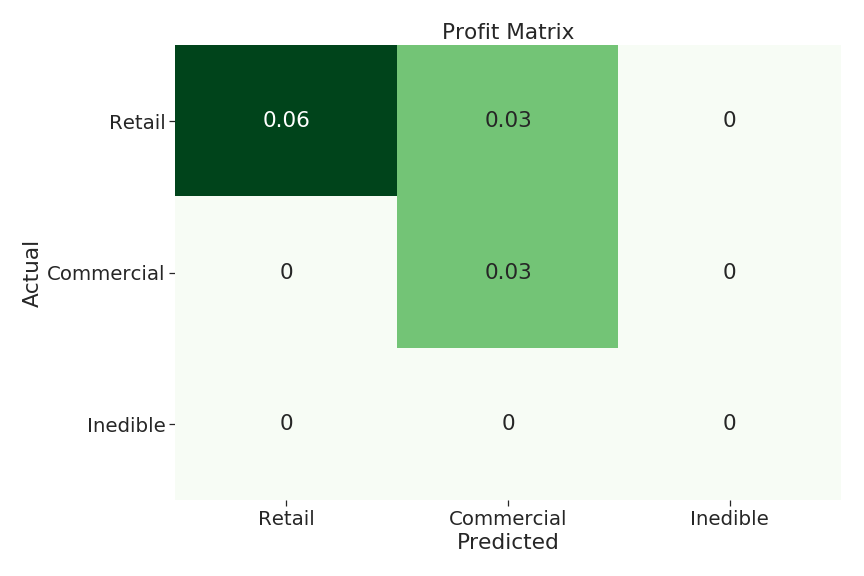
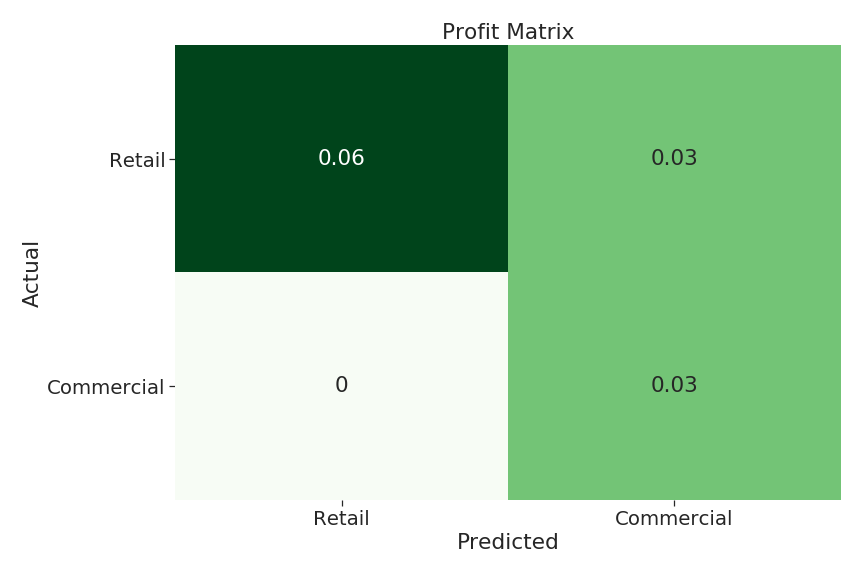
README update

diff --git a/src/model.py b/src/model.py
@@ -36,6 +36,10 @@ def get_scores(y_true, y_pred, average='micro'):
 
     return recall, precision, accuracy, f1, jaccard, specificity, miss, conf, report
 
+def save_model(model):
+    with open('models/sobel_lr.txt', 'wb') as fh:
+            pickle.dump(model, fh)
+
 
 if __name__ == '__main__':
     src_dir = 'data/raw/images'
@@ -49,42 +53,37 @@ if __name__ == '__main__':
     lemons = DatasetBuilder(ann_dir, fname)
     X, y = lemons.load_data()
 
-    # print('\nDoing PCA...')
-    # pca = PCA(n_components=0.9)
-    # X_pca = pca.fit_transform(X)
-    # print(f'Number of components covering 90% variance: {pca.n_components_}')
-    # # print(f'Variance components: {np.pca.explained_variance_[0:6])}')
+    X_train, X_test, y_train, y_test = train_test_split(X, y)#, test_size=0.25)
 
-    X_train, X_test, y_train, y_test = train_test_split(X, y, test_size=0.25)
+    l1s = [0.01, 0.1, 0.5, 0.9, 0.99]
+    regr = LogisticRegressionCV(class_weight='balanced',
+                               max_iter=1000,
+                               tol=0.001,
+                               n_jobs=-1,
+                               penalty='elasticnet',
+                               l1_ratios=l1s,
+                               multi_class='multinomial',
+                               solver='saga',
+                               verbose=1)
+    print('Fitting CV model\n')
+    model = regr.fit(X_train, y_train)
+    save_model(model)
 
-    # l1s = [0.01, 0.1, 0.5, 0.9, 0.99]
-    # regr = LogisticRegressionCV(class_weight='balanced',
-    #                            max_iter=1000,
-    #                            tol=0.001,
-    #                            n_jobs=-1,
-    #                            penalty='elasticnet',
-    #                            l1_ratios=l1s,
-    #                            multi_class='multinomial',
-    #                            solver='saga',
-    #                            verbose=1)
-    # print('Fitting CV model\n')
+    # regr = LogisticRegression(class_weight='balanced',
+    #                           max_iter=1000,
+    #                           penalty='l2',
+    #                           tol=0.0005,
+    #                           solver='saga',
+    #                           multi_class='multinomial',
+    #                           n_jobs=-1,
+    #                           verbose=1)
+
+    # print('\nFitting model...\n')
     # regr.fit(X_train, y_train)
-
-    regr = LogisticRegression(class_weight='balanced',
-                              max_iter=1000,
-                              penalty='l2',
-                              tol=0.0005,
-                              solver='saga',
-                              multi_class='multinomial',
-                              n_jobs=-1,
-                              verbose=1)
-
-    print('\nFitting model...\n')
-    regr.fit(X_train, y_train)
 
     print('\nPredicting!')
 
-    y_pred = regr.predict(X_test)
+    y_pred = model.predict(X_test)
 
     print(f'\nPredicted classes: \n{y_pred}')
 
@@ -99,3 +98,4 @@ if __name__ == '__main__':
     print(f'Specificity (True Negative rate): {specificity}')
     print(f'Misses (False Negative rate): {miss}')
     print(f'Confusion matrix: \n{conf}')
+    print(report)

diff --git a/src/dataset_prep.py b/src/dataset_prep.py
@@ -90,7 +90,7 @@ class DatasetBuilder():
             img = io.imread(file)
 
             gray = color.rgb2gray(img)
-            edges = sobel(img)
+            edges = sobel(gray)
 
             image_dict['data'].append(edges.ravel())
             image_dict['filename'].append(fname)

diff --git a/README.md b/README.md
@@ -7,13 +7,15 @@
 <img src="images/banner.jpg" style="width:900"/>
 
 # The Problem
-Food waste is a big problem in the US, and using machine learning tools to minimize the chances of food getting wasted would be a very beneficial application of the technology. Consumers tend to be very fickle about the appearance of their produce, so the ideal situation would be to sort every piece with a high degree of scrutiny before it gets distributed to grocery stores food product manufacturers.
+Food waste is a big problem in the US, and using sorting machinery augmented with machine learning tools to minimize the chance of food getting wasted would be a very beneficial application of the technology. Consumers tend to be very fickle about the appearance of their produce, so the ideal situation would be to sort every piece with a high degree of scrutiny before it gets distributed to grocery stores food product manufacturers.
 
-This project was designed around the concept of being integrated into an automated sorting/packing line. The machine would implement high speed conveyors moving the fruit along through a brightly lit tunnel, with a gap in between the two belts that facilitates taking high resolution video of each lemon over a uniform black background. 
+This project was designed around the concept of being integrated into an automated sorting/packing line. The machine would implement high speed conveyors moving the fruit along through a brightly lit tunnel, with a gap in between the two belts that facilitates taking high resolution video of each lemon over a uniform black background.
+
+Sorting machine concept: https://youtu.be/Xy1XTY7iqgc
 
 # Business Case
 
-As of 8/21/2020 wholesale pricing is widely varying, from [$12-$40 per 38lbs](https://www.marketnews.usda.gov/mnp/fv-report-top-filters?startIndex=1&dr=1&rowDisplayMax=25&portal=fv&navClass=&commAbr=LEM&locAbr=&locName=&varName=&region=&commName=LEMONS&navClass&navType=byComm&volume=&type=shipPrice&repType=shipPriceDaily), while nominal retail pricing is [$0.99/lb](https://www.marketnews.usda.gov/mnp/fv-report-retail?portal=fv&category=retail&type=retail&region=NATIONAL&organic=ALL&navClass=FRUITS&commodity=LEMONS). Assuming the mid-range wholesale price, there's a possible margin of $0.25 per pound (33%). As with so much of modern commerce, minimizing waste can mean the difference between staying a viable business and going under.
+As of 8/21/2020 wholesale pricing is widely varying, from [$12-$41 per 38lbs](https://www.marketnews.usda.gov/mnp/fv-report-top-filters?startIndex=1&dr=1&rowDisplayMax=25&portal=fv&navClass=&commAbr=LEM&locAbr=&locName=&varName=&region=&commName=LEMONS&navClass&navType=byComm&volume=&type=shipPrice&repType=shipPriceDaily), while nominal retail pricing is [$0.99/lb](https://www.marketnews.usda.gov/mnp/fv-report-retail?portal=fv&category=retail&type=retail&region=NATIONAL&organic=ALL&navClass=FRUITS&commodity=LEMONS). Assuming the mid-range wholesale price, there's a possible margin of $0.25 per pound (33%). As with so much of modern commerce, minimizing waste can mean the difference between staying a viable business and going under.
 
 Each lemon weighs roughly 1/4 pound and represents a potential gross profit of $0.06. Miscategorizing a non-edible lemon has a negative effect in every circumstance, though quantifying that is difficult. Mis-categorizing an industrial lemon to sell at retail represents a potential loss of a sale.
 
@@ -21,13 +23,16 @@ The goal then is to maximize the amount of lemons we can send to retail outlets 
 
 <img src="images/profit_matrix.png" style="width: 420px"/>
 
+*Profit matrix with all 'Inedible' fields set to 0 and removed*
+
 # The Data
 
-![](images/mosaic_c.png)
-*Image credit to the dataset creators*
+<img src="images/mosaic_c.png"/>
+*Image credit to the dataset creators. Quite beautiful, isn't it?*
 
-I found a dataset of 2690 images of lemons, along with annotations for each image that included information about the defects present as well as the overall quality of the image.
+I found a dataset of 2690 images of lemons in various states of decay, along with annotations for each image that included information about the defects present as well as the overall quality of the image.
 
+*__List of points of interest__*
 |   id | name               |
 |-----:|:-------------------|
 |    1 | image_quality      |
@@ -49,12 +54,11 @@ There are a couple of attributes that occur to varying degrees and could potenti
 
 - Retail (Class 2): fruit with none of the above
 
-
-
 The class counts ended up being very unbalanced
 
 <img src="images/class_counts.png" style="width:420px;"/>
 
+*Counts of each quality class*
 
 ### The Annotations File
 The .JSON formatted annotations file contains multiple entries (on average 12) per image with segmentation detailing the individual areas of interest on each fruit. This snippet of code helps form the following annotated image.
@@ -78,14 +82,16 @@ The .JSON formatted annotations file contains multiple entries (on average 12) p
   6.280772667938436]}
   ```
 
+  *Annotations snippet, COCO-formatted*
+
 <img src="images/annotated.jpg" style="width:900px;"/>
+
+*Image with segmentation*
 
 I didn't use the segmentation in this project, but each of those colored areas represents an entry in the annotations file which had to be compared to the criteria decided upon above and assigned a quality class. A significant portion of my time this week was spent writing the code to parse through the whole annotations file, making groups of annotations per image, then determining which category each lemon fell into.
 
-# The Technology
-<img src="images/tech/stack.png" style="width:800px"/>
 
-# The Process
+# Image Processing
 
 The images were scaled down to 128x128 pixels and saved with Scikit Image. I then ran tests on the color images as well as two increasingly complex transformations on each of the images. Those included:
 - HSV color space conversion
@@ -100,39 +106,54 @@ The images were scaled down to 128x128 pixels and saved with Scikit Image. I the
 
 *What actually gets sent through the model* 
 
-I ran PCA on the images after preprocessing, and it only had a negative effect on performance, so I didn't use it in the final runs. I fit a LogisticRegressionCV model on each of the image transformations on the AWS EC2 instance to run determine the best hyperparameters for the predict phase. I used ElasticNet regularization with a varying L1 ratio in each run. I also used the `class_weight` attribute of the LogisticRegressionCV model to adjust for the severely unbalanced classes.
-
 # The Results
+
+I fit a LogisticRegressionCV model on each of the image transformations on an Amazon Web Services EC2 instance to run determine the best hyperparameters for the predict phase. That freed up my computer to run smaller subsets of the data at the same time. I used ElasticNet regularization with a varying L1 ratio in each run. I also used the `class_weight` attribute of the LogisticRegressionCV model to adjust for the severely unbalanced classes. I then pickled and saved the model for ease of future testing.
 
 The model that ended up working the best was a L2 regularized Logistic Regression, using images that had been preprocessed with grayscaling and Sobel edge finding.
 
-*__The three class confusion matrix__*
 <img src="images/conf.png" style="width:900px;"/>
 
-The performance report
+*Three class confusion matrix*
 
-|              |  Precision  |  Recall | F1 score |  # per class |
-| ------------ | ----------- | ------- | -------- | -------- |
-|    Inedible  |     0.68    |  0.76   |   0.72   |    71    |
-|  Commercial  |     0.94    |  0.91   |   0.93   |    568   |
-|      Retail  |     0.35    |  0.41   |   0.38   |    34    |
-|                                                            |
-|    Accuracy  |             |         |   0.87   |    673   |
-|   Macro avg  |     0.66    |  0.70   |   0.67   |    673   |
-|Weighted avg  |     0.88    |  0.87   |   0.88   |    673   |
+### Performance
+
+Performance metrics on multiclass problems require a different way of thinking than they do on binary classification. This is due to every false positive also counting as a false negative. This fact didn't have much impact though as I wanted to prioritize the True Positive rate (Recall) across all classes from the beginning.
+
+*__Precision Metrics Report__*
+|              |  Precision  |  Recall | F1 score | Jaccard | # per class |
+| ------------ | ----------- | ------- | -------- | ------- |--------     |
+|    Inedible  |     0.68    |  0.76   |   0.72   | 0.56    |   71        |
+|  Commercial  |     0.94    |  0.91   |   0.93   | 0.88    |   568       |
+|      Retail  |     0.35    |  0.41   |   0.38   | 0.23    |   34        |
+|                                                                         |
+|    Accuracy  |             |         |   0.87   |         |   673       |
+|   Macro avg  |     0.66    |  0.70   |   0.67   |         |   673       |
+|Weighted avg  |     0.88    |  0.87   |   0.88   |   0.83  |   673       |
 
 
 Another import aspect of this choice of preprocessing was how much faster the Sobel images' model fit (22min vs 86min and 127min).
 
+# Conclusion
+
+A qty of 2690 lemons represent a theoretical __$161__ in profit. The classifications I made assume that there will be roughly 11% (284) inedible lemons in that sample which lowers our max profit potential to __$144__. Based on the achieved Recall scores and the profit matrix above, this model has achieved a theoretical gross profit of around __$76__, so about 53% of our max potential.
+
+Tweaking the quality threshold would have a big positive impact on this, as would adding one or two more quality levels.
+
 # Future Work
 I plan on trying a couple more transformations on the images to put through the logistic regression. After I have a good feeling for which transforms produce the best accuracy, I'd like to expand on the model selection to put the images through.
-- [ ] Naive Bayes
+- [ ] Test on Naive Bayes
 - [ ] Implement a CNN
 - [ ] Optimize the code even further
+- [ ] Talk with a practicing data scientist about how to actually integrate this concept into a physical system
+- [ ] Try it on a physical system?
 
 I'm also very interested in generating my own data to incorporate into my tests to make sure that it has a hope of working in the real world.
 
 I look forward to working on this project more!
+
+# Technologies
+<img src="images/tech/stack.png" alt="Python, Pandas, Numpy, Scikit Learn, Scikit Image, COCO, Amazon Web Services" style="width:800px"/>
 
 # References
 Dataset: https://github.com/softwaremill/lemon-dataset
